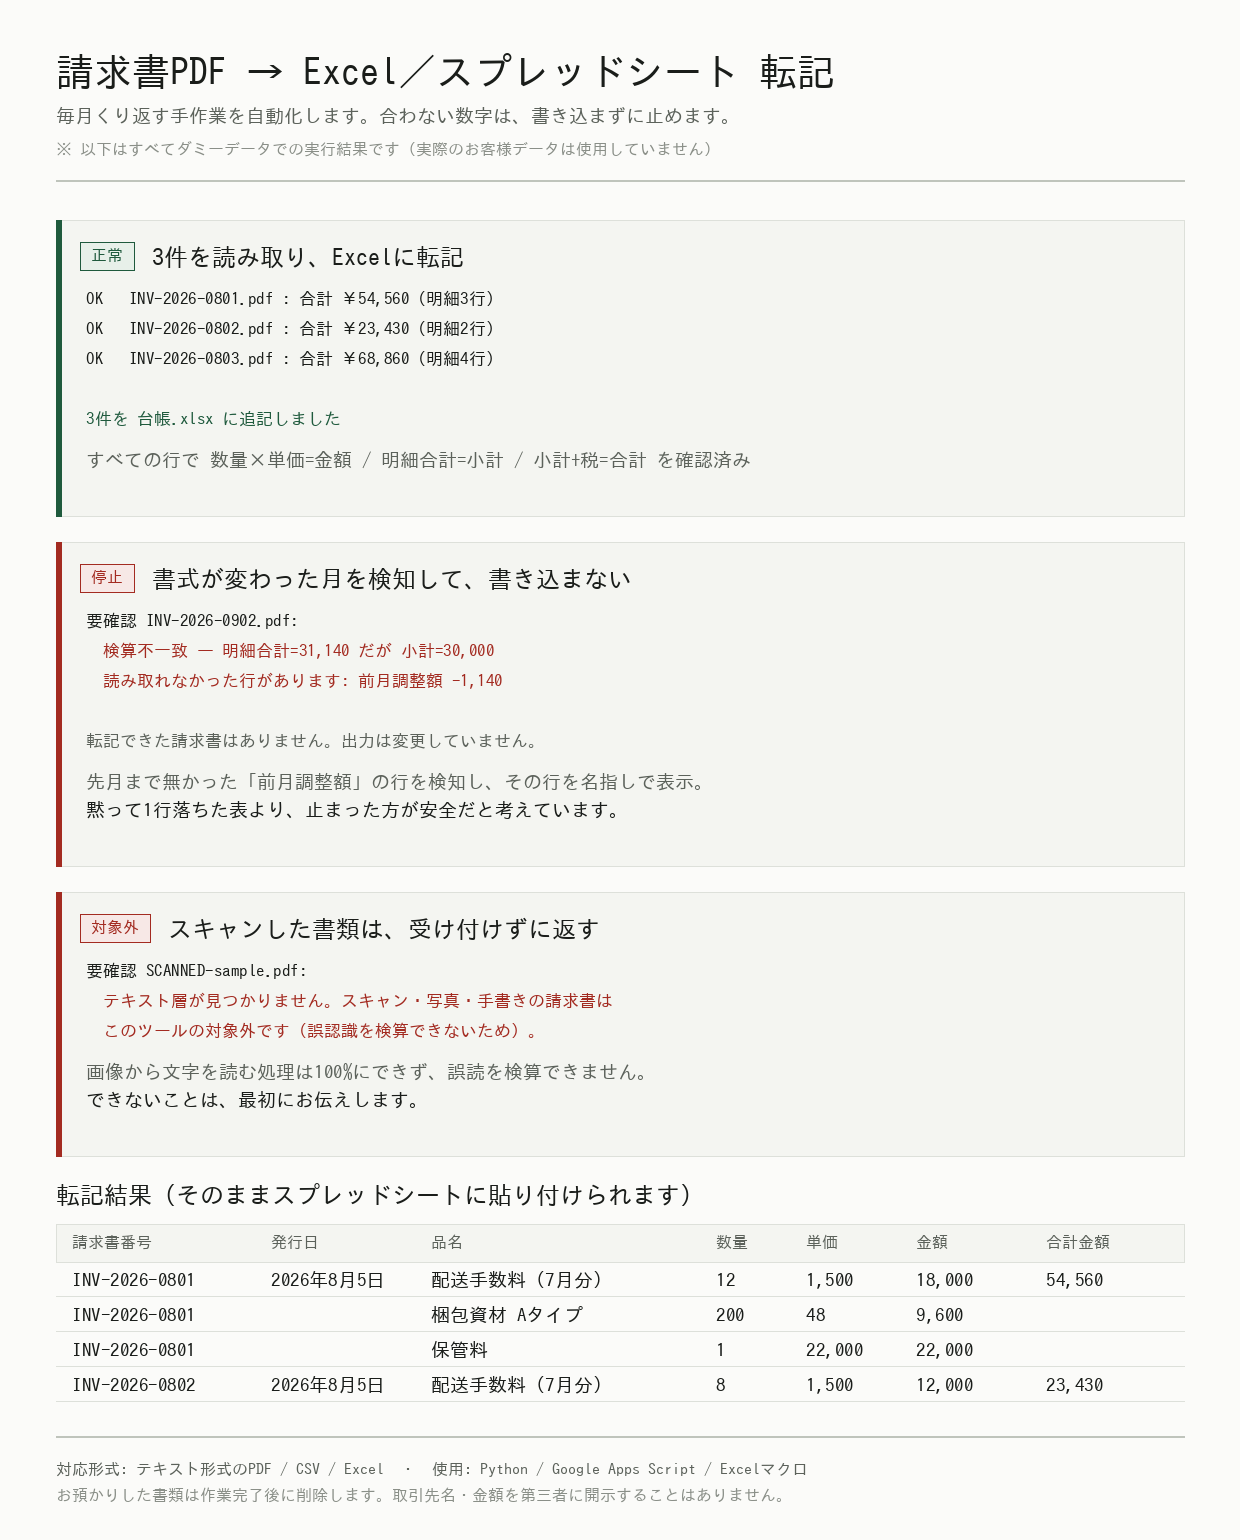
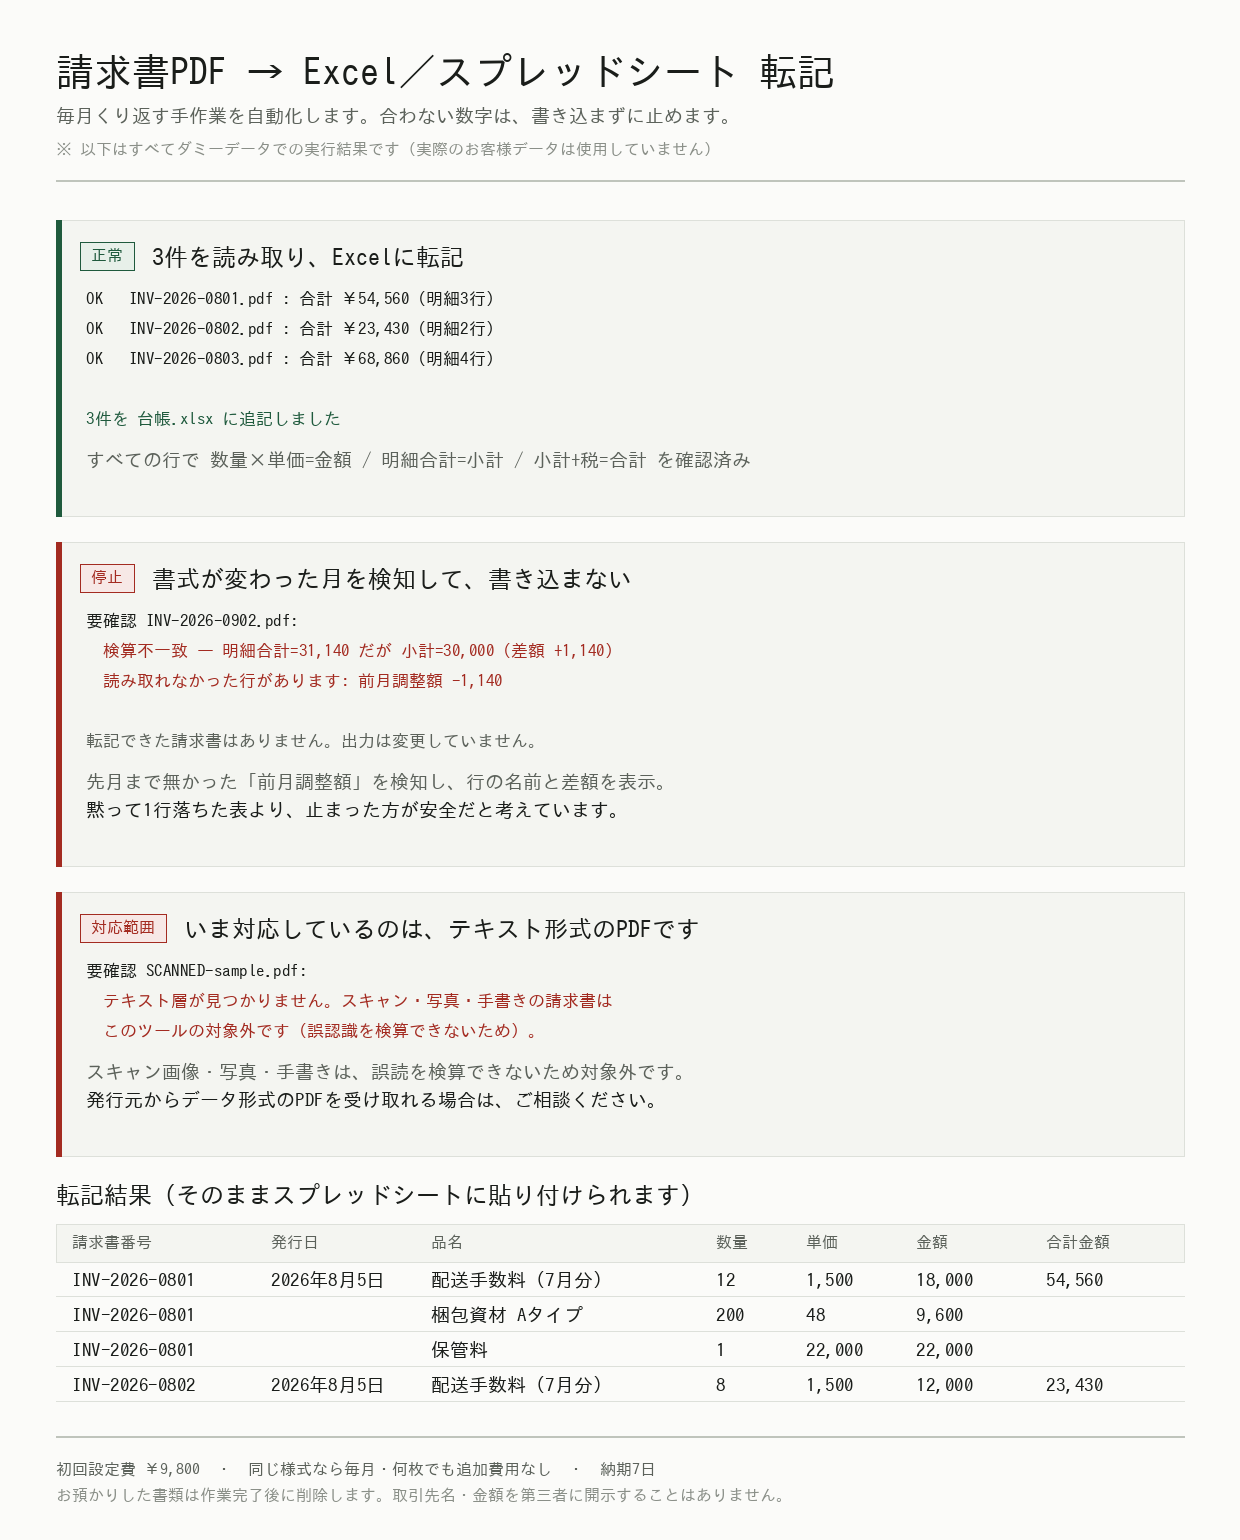
外部レビューを反映（誤読の修正・枚数の明示・差額表示）
受け入れた指摘:
- 「1フォーマット ¥9,800」は「1枚あたり」と誤読される。「初回設定費」に変更し、
  サムネにも「同じ様式なら毎月・何枚でも追加費用なし」を併記
- 「10枚でも9,800円か」に本文が答えていなかった。売っているのは転記作業1回
  ではなく仕組み1つであることを明記した節を追加。追加費用が要るのは別の
  発行元・別の書式を増やす場合だけ
- サムネの技術名（Python・GAS・Excelマクロ）を説明欄へ移動。購入者が気にしない
  情報にサムネの一等地を使っていた
- 検算メッセージに差額を追加。購入者が自分で照合できるようにするため、実装にも
  反映（明細行・小計・合計の3箇所）
- ポートフォリオ画像の「受け付けずに返す」を「いま対応しているのは、テキスト形式
  のPDFです」に変更。仕様は同じで言い方だけ
- タイトルを「請求書PDFのExcel転記を自動化します」、キャッチを「合わない数字は
  転記せず停止／同じ様式を毎月処理する方へ」に変更
- 購入前ヒアリング項目を追加

採用しなかった指摘:
- 「月20枚×1枚3分＝60分/月」という時間削減の訴求。一度も測っていない数字であり、
  根拠のない数値を訴求に使うのは本プロジェクトが繰り返し撤回してきた誤りの型。
  代わりに、現状の所要時間を顧客に聞く項目をヒアリングに入れた
- 業種による絞り込み（建設業・運送業など）。実例はAmazon物販・運送・給与計算の
  3件のみで、n=3で業種を断定できない。絞るなら業種ではなく症状（毎月同じ発行元
  から同じ書式の請求書が届く）で絞る

レビュー末尾の「商品完成度を上げ続けて出品0件のまま時間だけ過ぎるのが一番怖い」
という指摘は的確であり、141件調べて応募0件という現状がそれに該当する。よって
実害のある修正のみに絞り、作り込みは打ち切る。

Claude-Session: https://claude.ai/code/session_01Vffkt6GFp2ntEL4dMMFujJ

diff --git a/tools/invoice_to_excel/invoice_to_excel.py b/tools/invoice_to_excel/invoice_to_excel.py
@@ -164,11 +164,15 @@ def verify(inv: Invoice) -> list[str]:
         if expected != item.amount:
             problems.append(
                 f"明細「{item.name}」: 数量×単価={expected:,} だが 金額={item.amount:,}"
+                f"（差額 {item.amount - expected:+,}）"
             )
 
     items_sum = sum(i.amount for i in inv.items)
     if items_sum != inv.subtotal:
-        problems.append(f"明細合計={items_sum:,} だが 小計={inv.subtotal:,}")
+        problems.append(
+            f"明細合計={items_sum:,} だが 小計={inv.subtotal:,}"
+            f"（差額 {items_sum - inv.subtotal:+,}）"
+        )
         if inv.unparsed:
             problems.append(
                 "読み取れなかった行があります（請求書に新しい項目が増えた可能性）: "
@@ -178,6 +182,7 @@ def verify(inv: Invoice) -> list[str]:
     if inv.subtotal + inv.tax != inv.total:
         problems.append(
             f"小計+消費税={inv.subtotal + inv.tax:,} だが 合計金額={inv.total:,}"
+            f"（差額 {inv.subtotal + inv.tax - inv.total:+,}）"
         )
 
     return problems

diff --git a/research/phase3/07-coconala-listing.md b/research/phase3/07-coconala-listing.md
@@ -24,9 +24,9 @@
 
 | 項目 | 内容 |
 |---|---|
-| **タイトル** | 請求書PDFをExcelに自動転記する仕組みを作ります |
-| **キャッチコピー** | 合わない数字は書き込まずに止めます／毎月の手入力をなくす1本 |
-| **価格** | **¥9,800** |
+| **タイトル** | 請求書PDFのExcel転記を自動化します |
+| **キャッチコピー** | 合わない数字は転記せず停止／同じ様式を毎月処理する方へ |
+| **価格** | **初回設定費 ¥9,800**（「1フォーマット ¥9,800」は「1枚あたり」と誤読されるため変更） |
 | **お届け日数** | **7日** |
 | カテゴリ | IT・プログラミング・開発 → Excelマクロ・VBA作成（`categories/230/65`） |
 
@@ -40,6 +40,18 @@
 
 **下げない。** 実績0で価格まで下げると「安かろう」の信号になる。
 安さではなく**「無料で1枚試せる」**で勝負する（下記 §3）。
+
+### 「10枚でも9,800円か」に答える（外部レビューで指摘された穴）
+
+売っているのは**転記作業1回ではなく、仕組みを1つ作ること**である。
+
+| | |
+|---|---|
+| ¥9,800に含まれる | 1つの発行元・1つの書式に対する仕組みの作成 |
+| **作ったあと** | **その書式の請求書は、何枚でも・毎月何度でも処理できる（追加費用なし）** |
+| 追加費用が要る場合 | **別の発行元・別の書式**を増やすとき（1つにつき追加） |
+
+この区別を出品文に明記しないと、「1枚9,800円」と誤読されて取りこぼす。
 
 ### 納期を7日にする理由
 実行仕様では5日だったが、**初回は余裕を持つ**。
@@ -75,6 +87,20 @@
 作業はボタン1つ、または1行のコマンドで完了します。
 
 
+■ 料金について（枚数は関係ありません）
+
+9,800円は「請求書1枚あたり」ではなく、
+**仕組みを1つお作りする費用**です。
+
+一度お作りすれば、
+・同じ書式の請求書は、何枚でも処理できます
+・毎月くり返しお使いいただけます
+・追加の費用はかかりません
+
+追加費用がかかるのは、
+**別の発行元・別の書式**を増やす場合だけです（1つにつき追加）。
+
+
 ■ このサービスの中心は「転記」ではなく「検算」です
 
 自動化でこわいのは、動かなくなることではありません。
@@ -97,8 +123,10 @@
 具体的な行の名前を出して止まります。
 
 例：
-　検算不一致 — 明細合計=31,140 だが 小計=30,000
+　検算不一致 — 明細合計=31,140 だが 小計=30,000（差額 +1,140）
 　読み取れなかった行があります： 前月調整額 -1,140
+
+差額まで出しますので、どこがおかしいのかをご自身で確認できます。
 
 黙って1行落ちた表よりも、止まった方が安全だと考えています。
 
@@ -155,6 +183,17 @@
 2. 抜き出す項目の一覧をこちらから提示し、ご確認いただきます
 3. ご購入後、作成します
 4. 実際の1枚で動作をご確認いただき、操作手順書をお渡しします
+
+
+■ ご相談のときに教えていただきたいこと
+
+・請求書PDF（1〜3枚。金額は塗りつぶしていただいて構いません）
+・転記先のExcel／スプレッドシート（列の並びが分かるもの）
+・いま、その作業に毎月どのくらい時間がかかっているか
+・請求書は毎月何枚ほど届くか
+・発行元は1社ですか、複数ですか
+
+これが分かれば、対応できるかどうかを具体的にお答えできます。
 
 
 ■ 使用する技術
